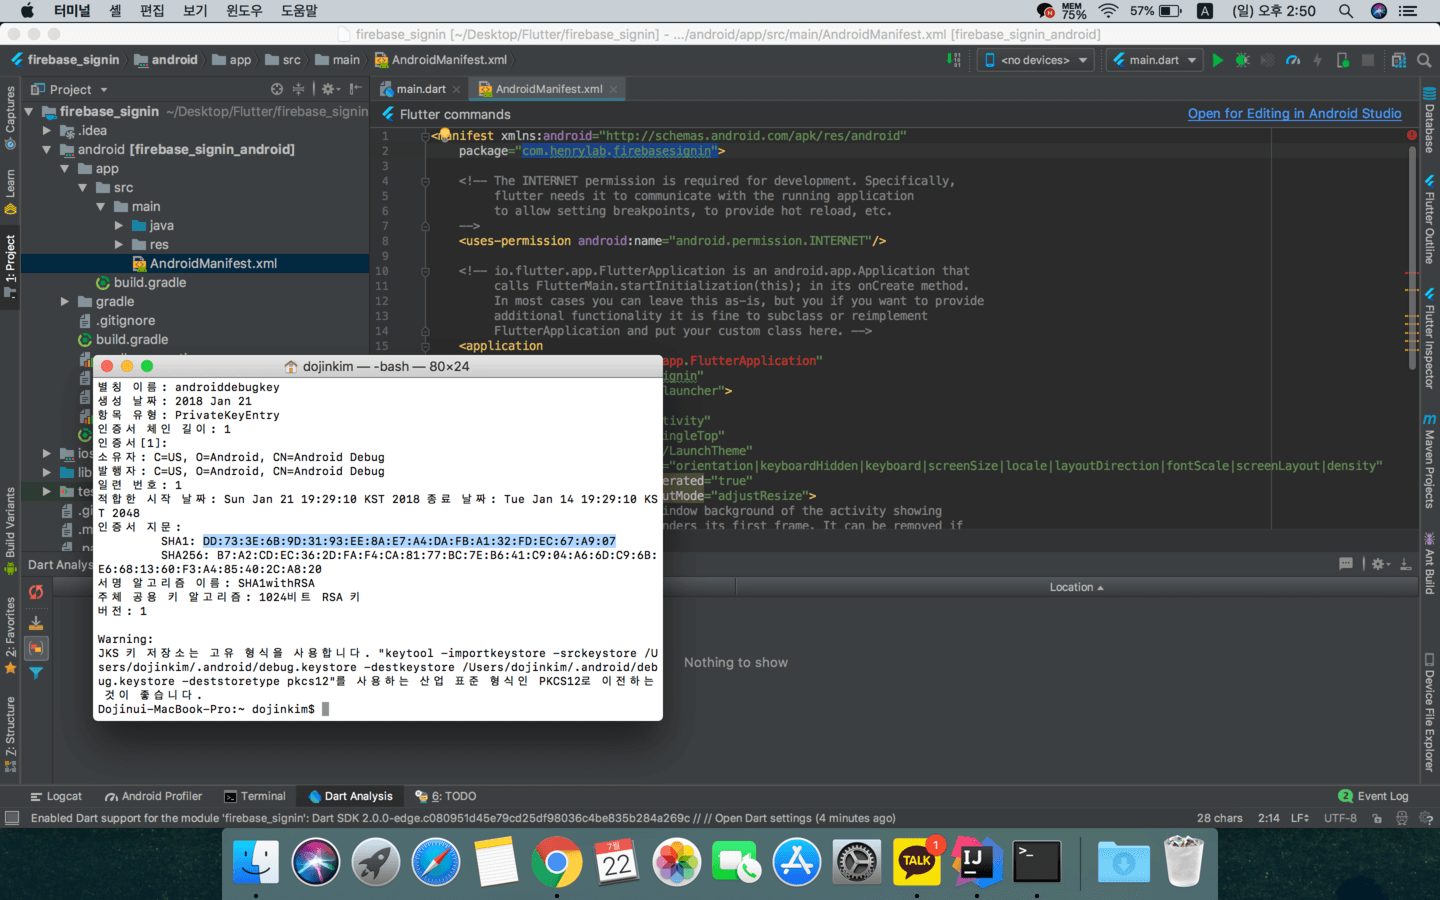
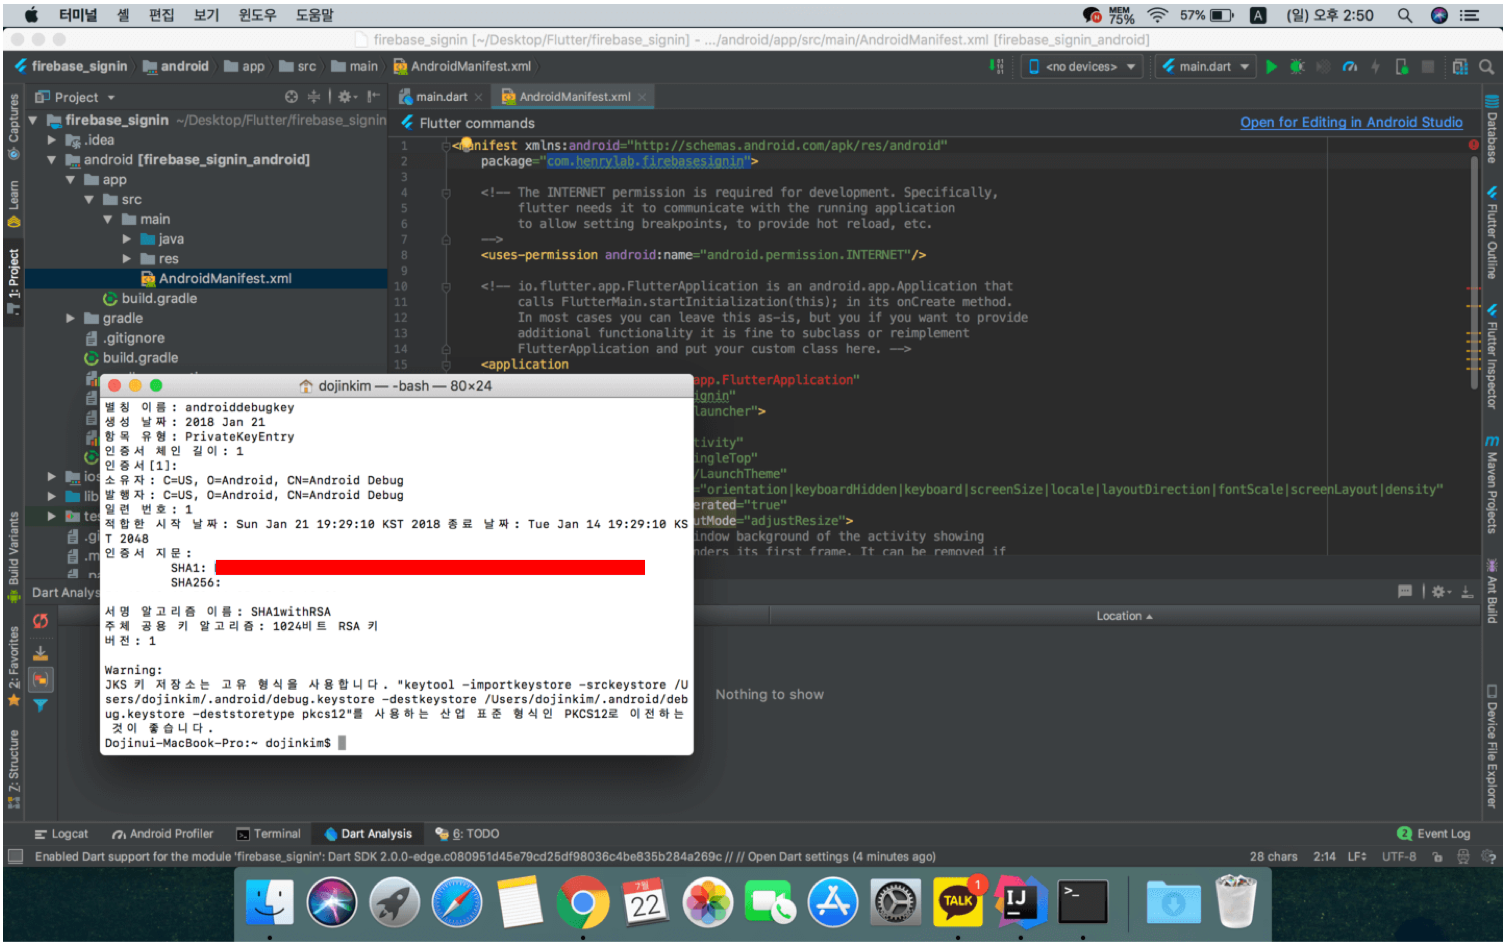
change flutter google signin1

diff --git a/_layouts/post.html b/_layouts/post.html
@@ -143,7 +143,7 @@ layout: default
 <script>
      (adsbygoogle = window.adsbygoogle || []).push({});
 </script>
-<br><br><br><br>
+<br><br><br>
 
 {% if site.disqus_shortname %}
 {% unless page.disqus_disabled %}

diff --git a/_posts/2018-07-22-flutter_fireabase1.md b/_posts/2018-07-22-flutter_fireabase1.md
@@ -40,7 +40,7 @@ cover:  "/assets/imgs/flutter/flutter_cover.png"
 <img src="{{ site.baseurl }}/assets/imgs/flutter/fb3.png"/>
 
 <h5>8. 복사한 부분을 터미널에 붙혀놓기를 하고 비밀번호는 "android" 혹은 그냥 Enter를 치면 다음과 같은 화면이 나온다. </h5>
-- SHA1: 뒤에 부분을 복사를 하고 firabse 사이트로 들어가서 붙혀놓기를 한다.
+- 빨간색으로 되어 있는 SHA1: 뒤에 부분을 복사를 하고 firabse 사이트로 들어가서 붙혀놓기를 한다.
 - 다음을 눌러서 다음 페이지로 넘어간다.
 <img src="{{ site.baseurl }}/assets/imgs/flutter/fb4.png"/>
 <img src="{{ site.baseurl }}/assets/imgs/flutter/fb6.png"/>
@@ -50,7 +50,7 @@ cover:  "/assets/imgs/flutter/flutter_cover.png"
 <h5>1. 파일을 다운로드 한다.</h5>
 <img src="{{ site.baseurl }}/assets/imgs/flutter/fb7.png"/>
 <h5>2. 다운로드 한 파일을 android/app 폴더에 복사를 한다.</h5>
-<img src="{{ site.baseurl }}/assets/imgs/flutter/fb8.png"/>
+<img src="{{ site.baseurl }}/assets/imgs/flutter/fb9.png"/>
 
 
 
